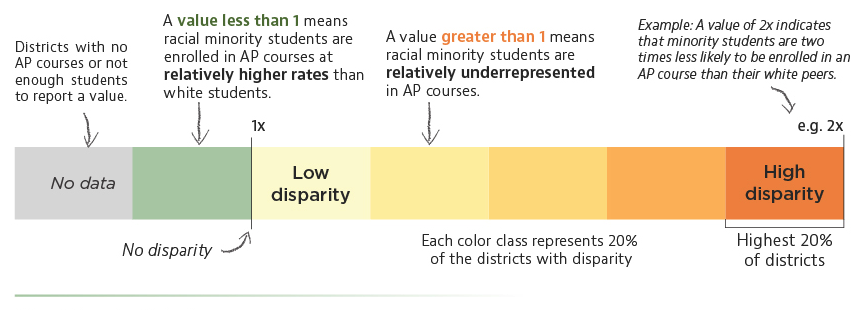
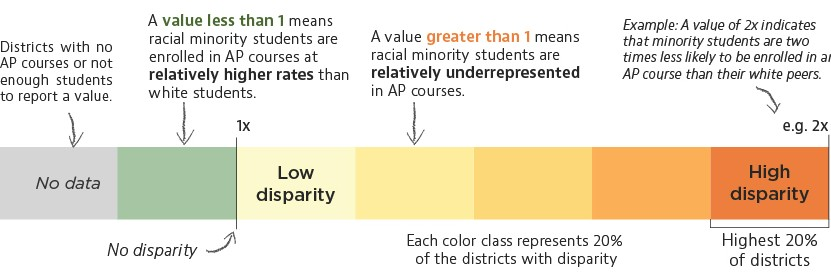
modal updates

diff --git a/app/css/mapStyle.css b/app/css/mapStyle.css
@@ -886,19 +886,21 @@ h3 {
 /* Modal content wrapper */
 .modal-content {
   position: relative;
+  padding-top: 2rem;
   width: 90vw;
   height: 90vh;
-  max-width: 500px;
+  max-width: 800px;
   display: flex;
-  justify-content: center;
-  align-items: center;
+  justify-content: baseline;
+  align-items: baseline;
   background-color: #f9f9f9;
+  gap:1;
 }
 
 .modal-close {
   position: absolute;
-  top: 2rem;
-  right: 3rem;
+  top: 1rem;
+  right: 2rem;
   font-size: 2rem;
   color: black;
   cursor: pointer;
@@ -921,4 +923,23 @@ h3 {
   object-fit: contain;
   border-radius: 4px;
   display: block;
+}
+
+#infoModal hr {
+  align-self: baseline;
+  width: 50%;               
+  height: 2px;              
+  background-image:linear-gradient(to right, green,transparent)
+}
+
+#modalTitle {
+  font-weight: bolder;
+}
+
+.modalSubHeader {
+  font-weight: bold;
+}
+
+.modalText{
+  align-self: baseline;
 }

diff --git a/app/map.html b/app/map.html
@@ -49,9 +49,14 @@
             class="modal-image"
           >
         </div>
-        <div id="modalSubHeader">How it's calculated</div>
+        <hr>
+        <div class="modalSubHeader">How it's calculated</div>
         <div class="modalText">The enrollment disparity in AP courses is calculated by... [asdfghfj more detail here asdlkfj]</div>
         <div id="disparityFormula">Disparity = % of white students enrolled in AP course / % of minorty students enrolled in AP courses</div>
+        <hr>
+        <div class="modalSubHeader">How it's classed</div>
+        <div class="modalText">The enrollment disparity in AP courses is calculated by... [asdfghfj more detail here asdlkfj]</div>
+
     </div>
   </div>
 
